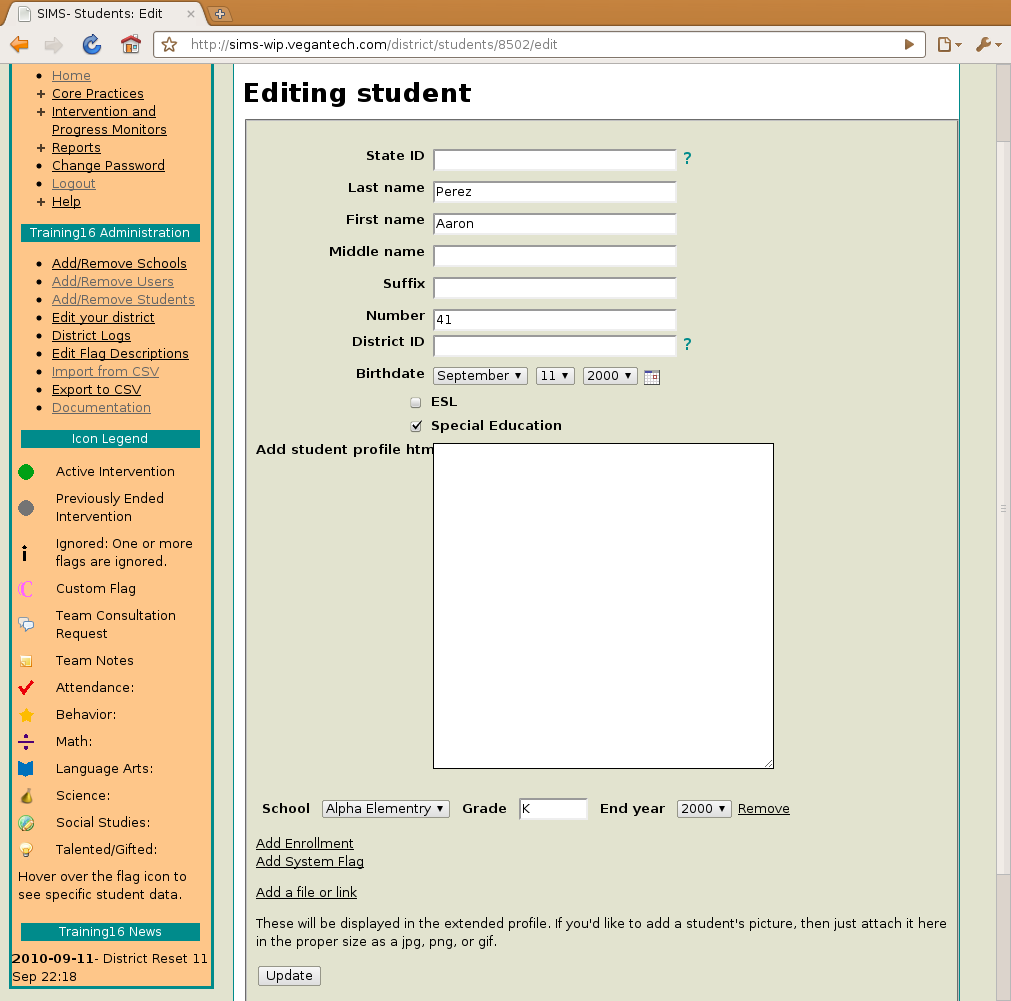
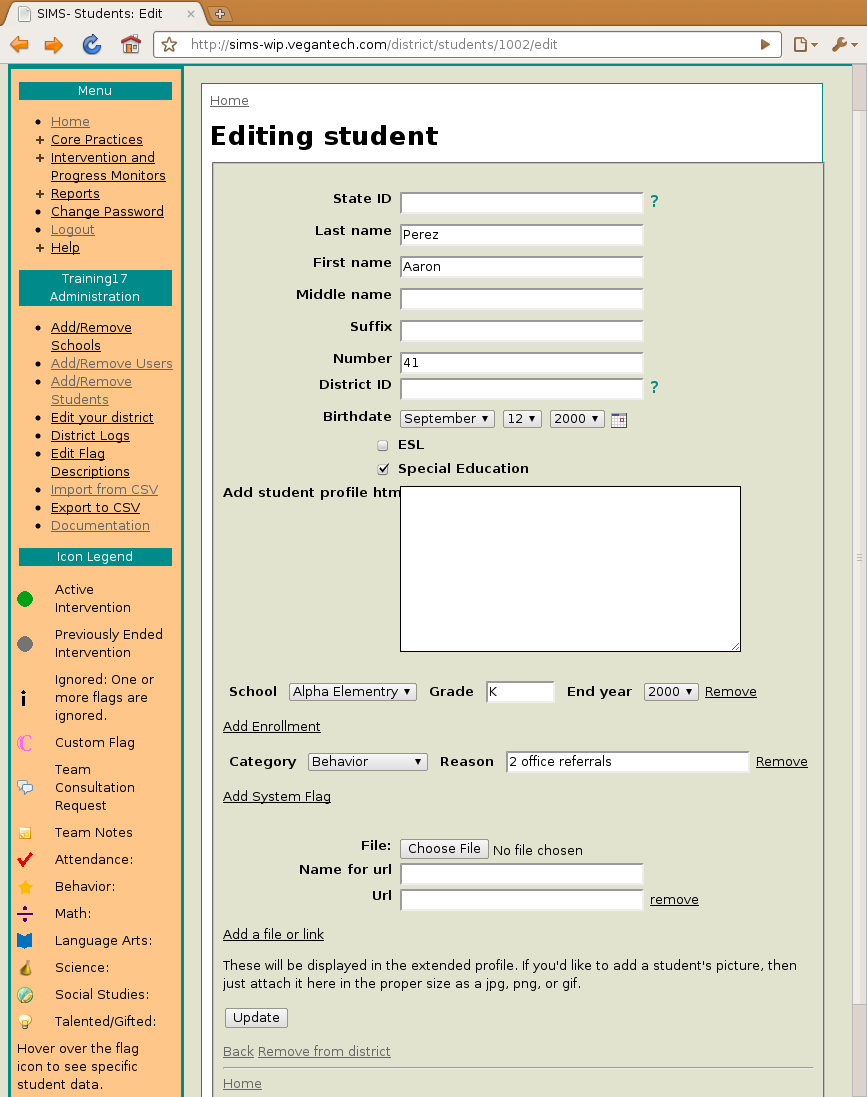
finished up district admin module

Changed region(s): [[0.0, 0.0, 1.0, 1.0]]

diff --git a/public/tutorial/sys_admin.html b/public/tutorial/sys_admin.html
@@ -250,16 +250,36 @@ Content Admin- Sets up tiers, intervention definitions, progress monitors, and t
 let you choose a school and designate if the user is a school admin and has access
 to all students in the school.</p>
 
+<p>The school administrator assigns users to specific groups. </p>
+
 <h2>News Admin</h2>
 <p>I think this would be a good place for the news admin slide that was at the end of the school admin section.</o>
 
 
 <h2>Students</h2>
 <img src="district_admin/student_list.png">
-<p>Here you can add students, edit them, or remove them from the district.    </p>
+<p>Here you can add students, edit them, or remove them from the district.   If you remove them from the
+district then they are still in the system, just not in your district.</p>
 
 <img src="district_admin/edit_student.png">
+<p> In Wisconsin the State ID is the WSLS number. </p>
+<p> The number field is what appears on their student id. </p>
+<p> The district ID field is the primary key in your student information system. </p>
 
+<p>You can enter text in the box for the extended profile.  This will appear after
+other extended profile content.  It's equivalent to the ext_arbitraries.csv. </p>
+
+<p>You can assign a student to a school by clicking the Add Enrollment link.   Choose a grade and 
+the End year.  (The end year is used on the student search screen.  It lets you enter enrollments for multiple
+years which is useful over the summer.)   </p>
+
+<p>Clicking the Add System Flag lets you pick a category and reason for a flag.   These can also be
+included in the system_flags.csv file (or the specific flag files.) </p>
+
+<p>You can upload files, or add links to the student, these are displayed in the extended profile.   Any attached photos will be
+displayed in the extended profile. </p>
+
+<p>The school administrator assigns users to specific groups. </p>
 
 <h2>Flag Descriptions</h2>
 <img src="district_admin/flag_descriptions.png">
